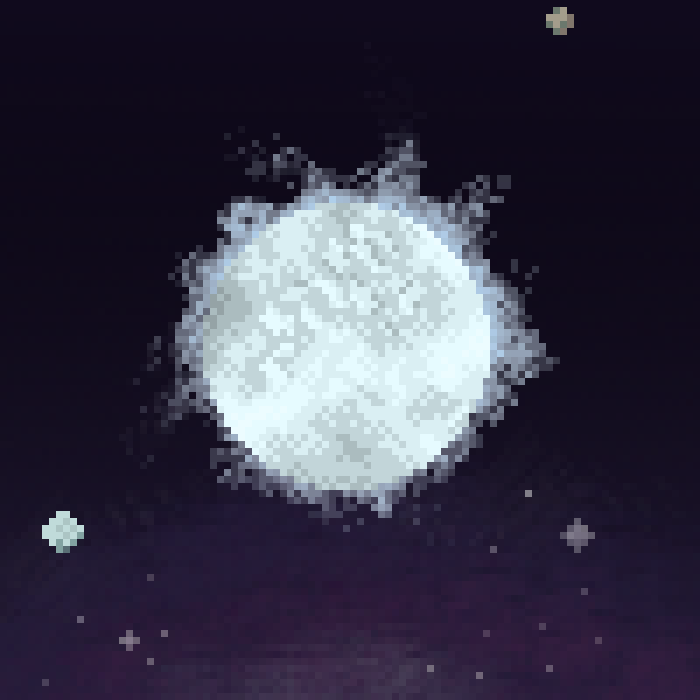
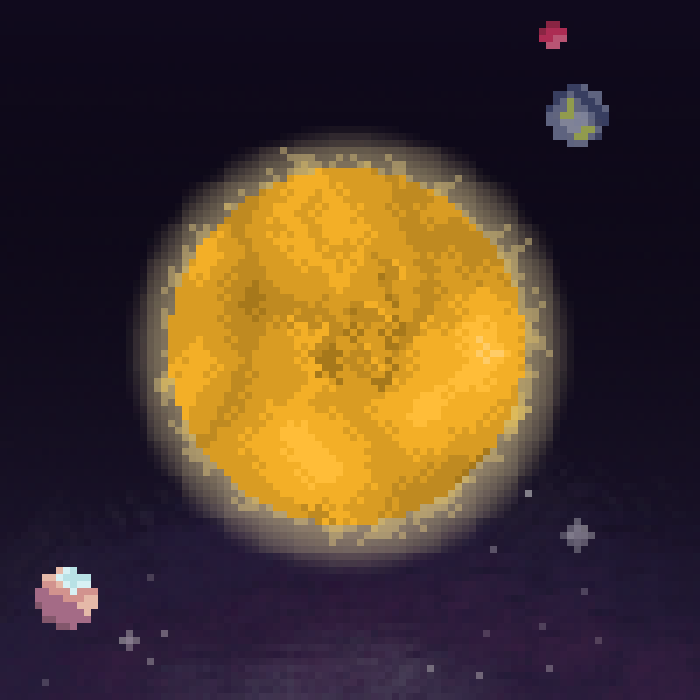
Modified distribution of some attributes. Modified minting process to allow minting after generation (kind of, will be finished soon). Added some flare textures.

diff --git a/generator/attributes.py b/generator/attributes.py
@@ -25,11 +25,11 @@ def gen_color(temperature, luminosity):
   color = 'Blue'
   ratio = int(temperature * luminosity)
   percentiles = {
-  'zero' : (range(0, 5000), ['Black', 'Dynamic']),
-  'ten' : (range(5000, 15000), ['Brown', 'Red', 'Orange']),
-  'twofive' : (range(15000, 25000), ['Red', 'Orange', 'Yellow']),
-  'fifty' : (range(25000, 38000), ['Orange', 'Yellow']),
-  'sevenfive' : (range(38000, 51000), ['Yellow', 'White']),
+  'zero' : (range(0, 7999), ['Black', 'Dynamic']),
+  'ten' : (range(8000, 14999), ['Brown', 'Red', 'Orange']),
+  'twofive' : (range(15000, 24999), ['Red', 'Orange', 'Yellow']),
+  'fifty' : (range(25000, 37999), ['Orange', 'Yellow']),
+  'sevenfive' : (range(38000, 50999), ['Yellow', 'White', 'Blue']),
   'ninety' : (range(51000, 63000), ['White', 'Blue'])
   }
 
@@ -82,13 +82,13 @@ def gen_size(color):
   # Use conditionals to determine what the probablities of getting
   # each size class of star for each color.
   if color == 'Dynamic':
-    probabilities = [30, 70]
-    seq = ['Dwarf', 'Cepheid']
+    probabilities = [15, 20, 20, 15, 30]
+    seq = ['Subdwarf', 'Dwarf', 'Subgiant', 'Giant', 'Cepheid']
   elif color == 'Black':
-    probabilities = [15, 85]
-    seq = ['Neutron Star', 'Undefined']
+    probabilities = [20, 30, 20, 30]
+    seq = ['Neutron Star', 'Subdwarf', 'Dwarf', 'Undefined']
   elif color == 'Brown':
-    probabilities = [80, 20]
+    probabilities = [60, 40]
     seq = ['Neutron Star', 'Subdwarf']
   elif color == 'Red':
     probabilities = [5, 35, 25, 15, 10, 10]
@@ -170,7 +170,7 @@ def gen_stellar_class(color, luminosity):
   low_lum = luminosity <= 1
 
   # Get the normal colors of a star and the list of all stellar classes.
-  norm_colors = ['Red', 'Orange', 'Yellow', 'White', 'Blue']
+  norm_colors = ['Red', 'Orange', 'Yellow', 'White', 'Blue', 'Brown']
   class_lst = utils.class_lst
 
   # Use a conditional to assign stellar classes to a star.
@@ -228,24 +228,19 @@ def gen_partner(color, size):
   # Define the return variable and parameters for what is
   # needed to have a partner planet.
   sub_star = None
-  req_size = ['Neutron Star', 'Subdwarf', 'Dwarf', 'Subgiant']
   chance = random.randint(1,100)
 
   # Conditional to check what color the binary star should be.
   binary_colors = ['Yellow', 'Orange', 'Red', 'Blue', 'White']
-  if color in binary_colors:
-    binary_selection = binary_colors.remove(color)
-  else:
-    binary_selection = binary_colors
+  binary_selection = [b_color for b_color in binary_colors if b_color != color]
 
   # Conditional to check if the star will be in a binary system.
-  if size in req_size:
-    if color == 'Dynamic':
-      if chance > 10:
-        sub_star = random.choice(binary_selection)
-    elif color in binary_colors:
-      if chance > 90:
-        sub_star = random.choice(binary_selection)
+  if color in binary_colors:
+    if chance > 80:
+      sub_star = random.choice(binary_selection)
+  elif color == 'Dynamic':
+    if chance > 50:
+      sub_star = random.choice(binary_selection)
 
   return sub_star
 

diff --git a/image_maker/image.py b/image_maker/image.py
@@ -27,6 +27,8 @@ def gen_image(star, code='0'):
   Returns: a png image that represents the star.
   '''
 
+  json.gen_json(star, code)
+
   # Link each visual attribute of the star to more readable
   # variables for navigating the images.
   size, color = (star.size, star.color) # str, str
@@ -106,23 +108,26 @@ def gen_image(star, code='0'):
 
       nova_age = random.choice(['Old', 'Young'])
 
-      for cat in utils.color_dict:
-        items = utils.color_dict[cat]
-        if star.life_stage in items:
-          nova_material = cat
+      for cat in utils.color_dict.items():
+        key = cat[0]
+        val = cat[1]
+
+        if star.life_stage in val:
+          nova_material = key
       
       anomaly_path = f'{root}/anomaly/Supernova/{nova_age}/{nova_material}.png'
     elif anomaly == 'Eclipse':
       anomaly_path = f'{root}/base/{size}.png'
       cont = True
     elif anomaly == 'Pulsar':
-      anomaly_path = f'{root}/Pulsar/pulsar.png'
+      anomaly_path = f'{root}/anomaly/Pulsar/pulsar.png'
       cont = True
     elif anomaly == 'Mira Variable Star':
-      anomaly_path = f'{root}/Mira Variable Star/{color}.png'
+      anomaly_path = f'{root}/anomaly/Mira Variable Star/{color}.png'
     elif anomaly == 'Blackhole':
-      anomaly_path = f'{root}/base/Blackhole.png'
+      anomaly_path = f'{root}/anomaly/Blackhole/Blackhole.png'
     elif anomaly == 'Supermassive Blackhole':
+      bg = Image.open(f'{root}/backgrounds/Rogue/rogue2.png)').convert('RGBA')
       anomaly_path = f'{root}/anomaly/Supermassive Blackhole/smb.png'
 
     anomaly_img = Image.open(anomaly_path).convert('RGBA')

diff --git a/minting/mint.py b/minting/mint.py
@@ -6,6 +6,7 @@
 import os, glob
 from replit import db
 import requests
+import json
 from generator.sol_gen import gen_sol
 from image_maker.image import gen_image
 from image_maker.json import gen_json
@@ -47,13 +48,13 @@ def mint_collection(count):
   # Use a for loop to mint each NFT
   for code in range(1, count + 1):
     star = gen_sol()
-    json_meta = gen_json(star, code)
+    gen_json(star, code)
     gen_image(star, code)
 
-    mint(code, json_meta)
+    mint(code)
 
 
-def mint(code, json_meta, testnet=False):
+def mint(code, testnet=False):
   '''
   This function mints MesiSols to the mainnet.
 
@@ -62,6 +63,11 @@ def mint(code, json_meta, testnet=False):
   '''
 
   ### Configuration ###
+
+  # Find the attribute metadata of the star
+  meta_file = open(f'image_maker/star_json/MesiSolsMetadata{code}.json', 'r')
+  meta_dict = json.load(meta_file)
+  json_meta = json.dumps(meta_dict)
 
   # For debugging and minting purposes, convert the code int to str.
   str_code = str(code)

diff --git a/generator/anomaly_gen.py b/generator/anomaly_gen.py
@@ -45,7 +45,7 @@ def has_anomaly(Star):
   mira_sizes = ['Cepheid', 'Giant', 'Supergiant']
   
   # Conditional to check if the Star has Mira Variable attributes.
-  if Star.color in ['Red', 'Yellow'] and Star.size in mira_sizes:
+  if Star.color in ['Red', 'Yellow', 'Orange'] and Star.size in mira_sizes:
     chance = random.randint(1,100)
 
     # Cepheid star types have a higher chance to be Mira Stars.

diff --git a/generator/utils.py b/generator/utils.py
@@ -56,7 +56,7 @@ class_lst = ['M', 'K', 'G', 'F', 'A', 'B', 'O', 'S']
 # Positions
 position_lst = ['Disk', 'Globular Cluster', 'Halo',
                 'Bulge', 'Nucleus', 'Rogue']
-position_weight = [30, 20, 15, 15, 10, 10]
+position_weight = [30, 20, 15, 20, 5, 10]
 
 # Local System
 system = get_truncated_normal(1, 2.5, 0, 4)
